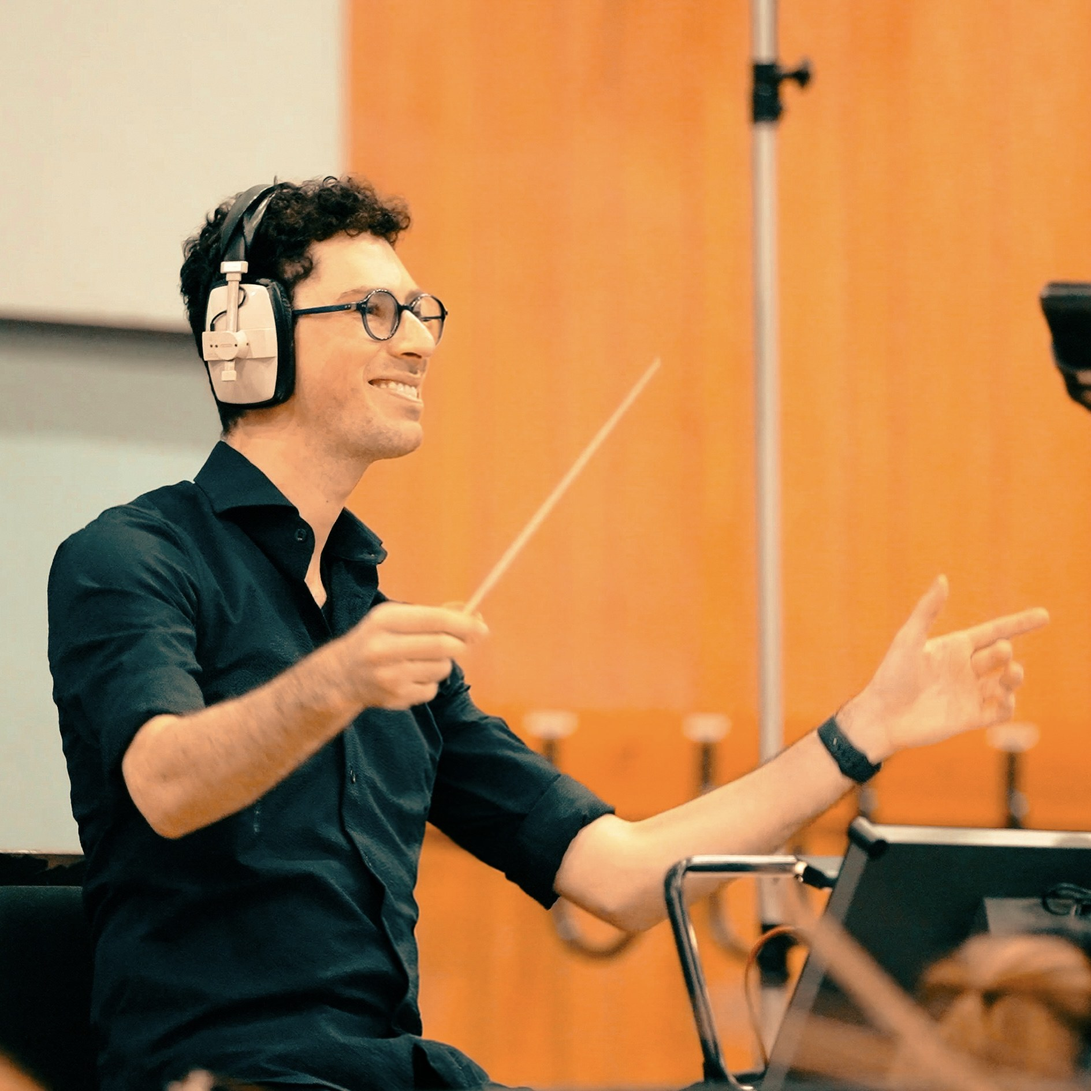
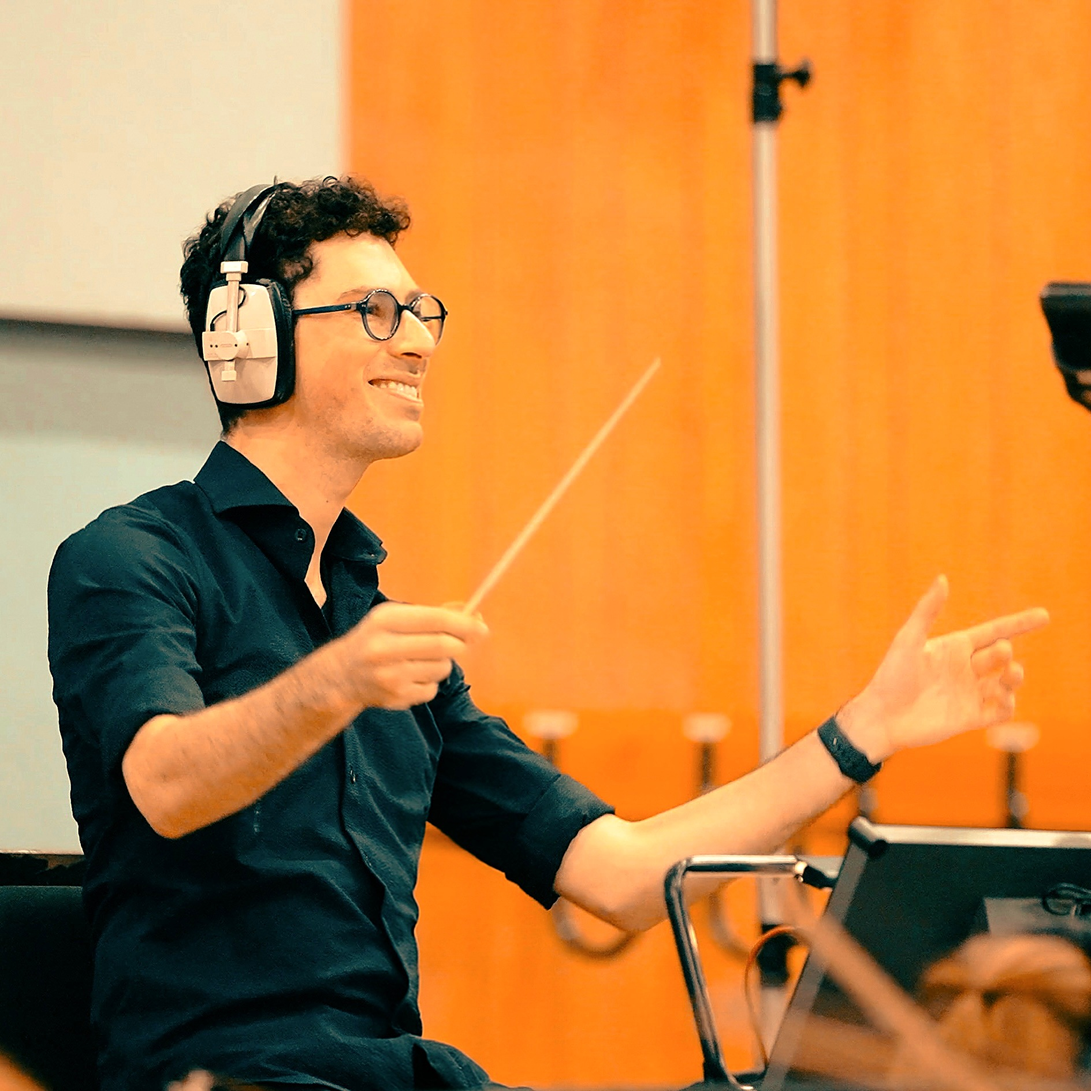
Work with Kyle: brighter, sharper conducting photo (matches Kyle's edit); bust SW image cache on image changes
Claude-Session: https://claude.ai/code/session_01J4kEb8i43ScNqshKGYvctF

diff --git a/public/sw.js b/public/sw.js
@@ -1,4 +1,4 @@
-const V = '824fc3dc0c';
+const V = 'ccfc580aeb';
 const CORE = ["/img/grain.webp", "/favicon.svg", "/fonts/archivo-62-800.woff2", "/fonts/dm-mono-400.woff2", "/fonts/instrument-sans.woff2"];
 self.addEventListener('install', e => { e.waitUntil(caches.open('kdg-' + V).then(c => c.addAll(CORE)).then(() => self.skipWaiting())); });
 self.addEventListener('activate', e => { e.waitUntil(caches.keys().then(ks => Promise.all(ks.filter(k => k !== 'kdg-' + V).map(k => caches.delete(k)))).then(() => self.clients.claim())); });

diff --git a/tools/speed.py b/tools/speed.py
@@ -146,7 +146,8 @@ def optimize(out):
             s = open(p, encoding='utf-8').read().replace('/img/grain.png', '/img/grain.webp')
             open(p, 'w', encoding='utf-8').write(s)
     core = ['/img/grain.webp', '/favicon.svg', '/fonts/archivo-62-800.woff2', '/fonts/dm-mono-400.woff2', '/fonts/instrument-sans.woff2']
-    ver = hashlib.sha1(''.join(open(p, 'rb').read().hex()[:2000] for p in pages).encode()).hexdigest()[:10]
+    imgsig = ''.join(f'{f}:{os.path.getsize(os.path.join(out, "img", f))}' for f in sorted(os.listdir(os.path.join(out, 'img'))))
+    ver = hashlib.sha1((''.join(open(p, 'rb').read().hex()[:2000] for p in pages) + imgsig).encode()).hexdigest()[:10]  # image changes bust the SW cache too
     open(os.path.join(out, 'sw.js'), 'w').write(SW % (ver, json.dumps(core)))
     print('speed: pages', len(pages), 'images', len(cache))
 
